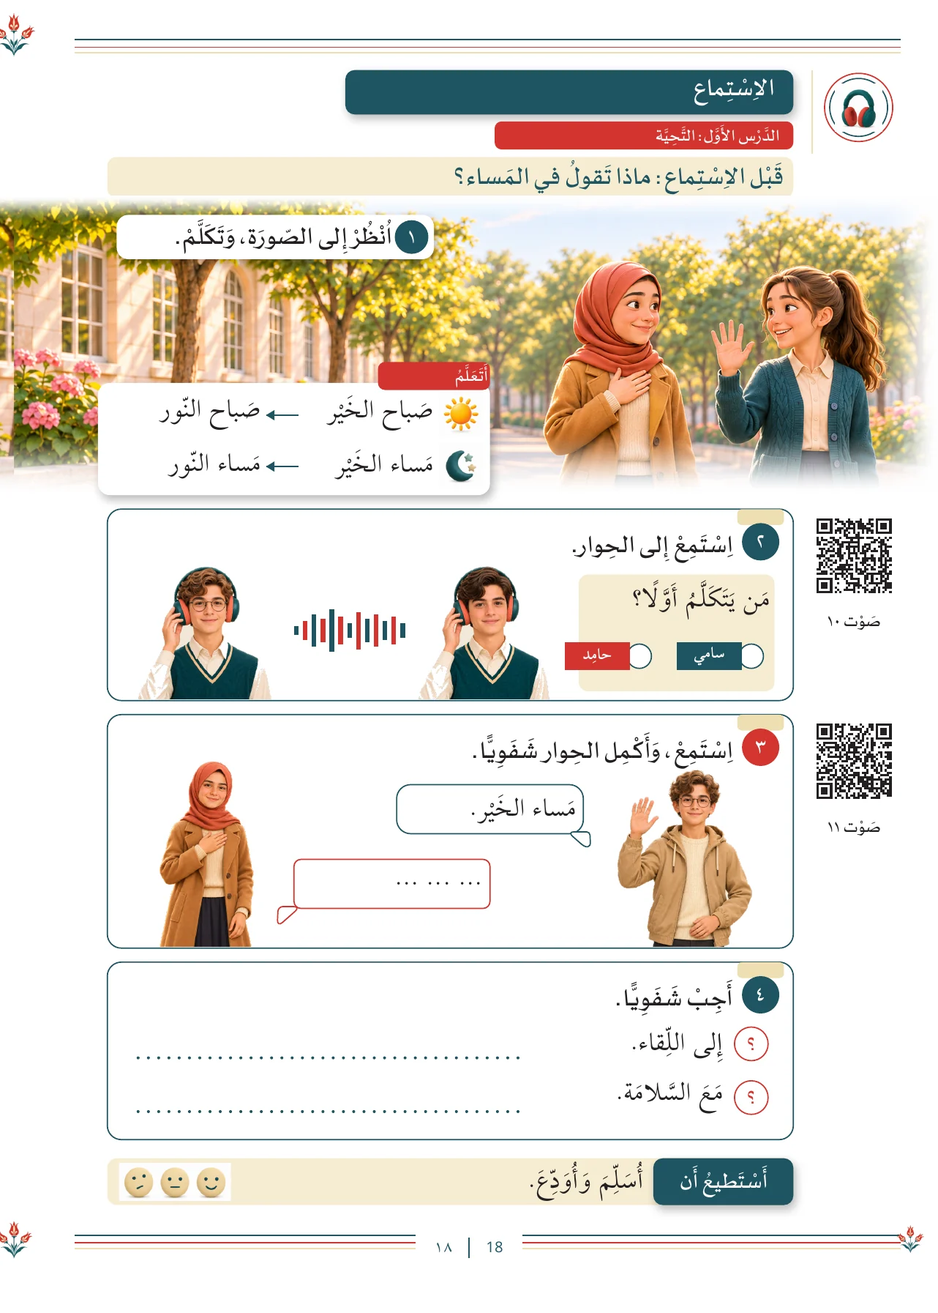
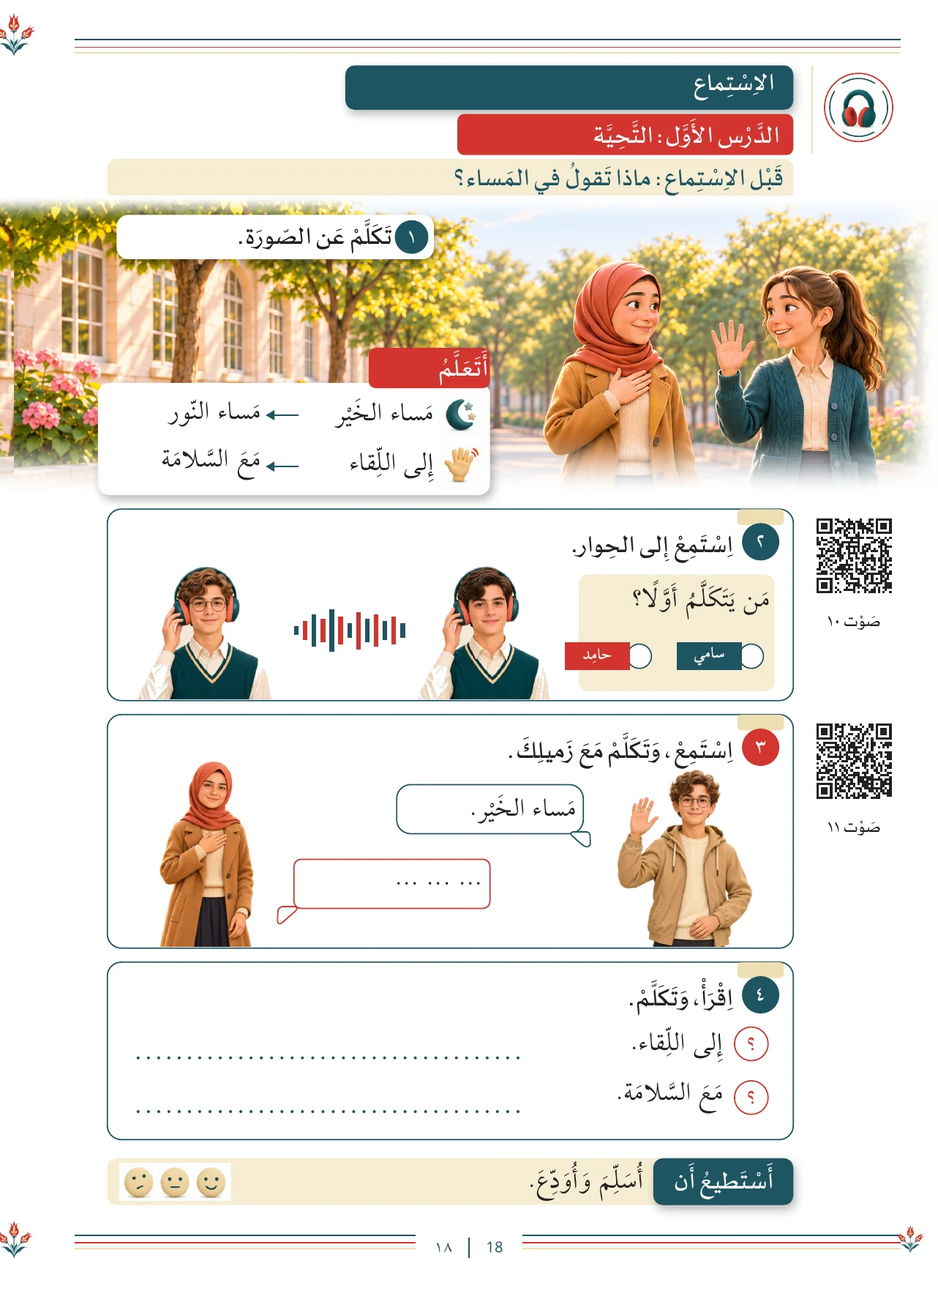
Sürüm 7.1: açılış penceresi, program yönerge fiilleri, başlık puntoları, tekrar eden görsel düzeltmesi

diff --git a/book-data.js b/book-data.js
@@ -1,1 +1,1 @@
-window.BOOK = {"id": "prea1-arapca-2026", "version": "0.4.0", "title": "Arapça Pre A1", "unitTitle": "Ehlen bi'l-Arabiyye", "unitArabic": "أَهْلًا بِالعَرَبِيَّةِ", "firstPage": 8, "lastPage": 20, "units": [{"number": 1, "first": 10, "last": 19, "title": "Ehlen bi'l-Arabiyye"}], "pages": [{"number": 8, "image": "assets/pages/008.webp", "thumb": "assets/thumbs/008.webp", "text": "", "resources": [], "hotspots": [], "regions": []}, {"number": 9, "image": "assets/pages/009.webp", "thumb": "assets/thumbs/009.webp", "text": "", "resources": [], "hotspots": [], "regions": []}, {"number": 10, "image": "assets/pages/010.webp", "thumb": "assets/thumbs/010.webp", "text": "", "resources": ["p10-unite_icerik"], "hotspots": [], "regions": []}, {"number": 11, "image": "assets/pages/011.webp", "thumb": "assets/thumbs/011.webp", "text": "", "resources": ["p11-unite_ozet", "p11-unite_video"], "hotspots": [], "regions": []}, {"number": 12, "image": "assets/pages/012.webp", "thumb": "assets/thumbs/012.webp", "text": "", "resources": ["p12-dinleme_1", "p12-dinleme_2"], "hotspots": [], "regions": [{"n": 1, "rect": [10.256, 14.727, 74.872, 23.818]}, {"n": 2, "rect": [10.256, 38.727, 74.872, 15.818]}, {"n": 3, "rect": [10.256, 54.727, 74.872, 19.091]}, {"n": 4, "rect": [10.256, 74, 74.872, 18.727]}]}, {"number": 13, "image": "assets/pages/013.webp", "thumb": "assets/thumbs/013.webp", "text": "", "resources": ["p13-alfabe", "p13-harf_sec"], "hotspots": [], "regions": [{"n": 1, "rect": [14.872, 38.727, 74.872, 33.818]}, {"n": 2, "rect": [14.872, 72.727, 74.872, 20]}]}, {"number": 14, "image": "assets/pages/014.webp", "thumb": "assets/thumbs/014.webp", "text": "", "resources": ["p14-harf_ses", "p14-harf_yaz"], "hotspots": [], "regions": [{"n": 1, "rect": [10.256, 12.545, 74.872, 13.273]}, {"n": 2, "rect": [10.256, 26, 74.872, 66.727]}]}, {"number": 15, "image": "assets/pages/015.webp", "thumb": "assets/thumbs/015.webp", "text": "", "resources": ["p15-hareke", "p15-hareke_sec"], "hotspots": [], "regions": [{"n": 1, "rect": [14.872, 12.545, 74.872, 54.364]}, {"n": 2, "rect": [14.872, 67.091, 74.872, 25.636]}]}, {"number": 16, "image": "assets/pages/016.webp", "thumb": "assets/thumbs/016.webp", "text": "", "resources": ["p16-ifade"], "hotspots": [], "regions": [{"n": 1, "rect": [10.256, 12.545, 74.872, 80.182]}]}, {"number": 17, "image": "assets/pages/017.webp", "thumb": "assets/thumbs/017.webp", "text": "", "resources": ["p17-harf_yaz_2", "p17-harf_sec_2"], "hotspots": [], "regions": [{"n": 1, "rect": [14.872, 12.545, 74.872, 55.636]}, {"n": 2, "rect": [14.872, 68.364, 74.872, 24.364]}]}, {"number": 18, "image": "assets/pages/018.webp", "thumb": "assets/thumbs/018.webp", "text": "", "resources": ["p18-dinleme_3", "p18-dinleme_4"], "hotspots": [], "regions": [{"n": 1, "rect": [10.256, 14.727, 74.872, 23.818]}, {"n": 2, "rect": [10.256, 38.727, 74.872, 15.818]}, {"n": 3, "rect": [10.256, 54.727, 74.872, 19.091]}, {"n": 4, "rect": [10.256, 74, 74.872, 18.727]}]}, {"number": 19, "image": "assets/pages/019.webp", "thumb": "assets/thumbs/019.webp", "text": "", "resources": ["p19-harf_yaz_3", "p19-harf_sec_3"], "hotspots": [], "regions": [{"n": 1, "rect": [14.872, 38.727, 74.872, 36.727]}, {"n": 2, "rect": [14.872, 75.636, 74.872, 17.091]}]}, {"number": 20, "image": "assets/pages/020.webp", "thumb": "assets/thumbs/020.webp", "text": "", "resources": [], "hotspots": [], "regions": []}], "resources": [{"id": "p10-unite_icerik", "page": 10, "kind": "web", "title": "مَوْقِع الوَحْدَة", "label": "مَوْقِع الوَحْدَة", "url": "", "rect": [87.179, 49.455, 10.256, 7.273], "media": "unite_icerik"}, {"id": "p11-unite_ozet", "page": 11, "kind": "video", "title": "مُخْتَصَر الوَحْدَة", "label": "مُخْتَصَر الوَحْدَة", "url": "", "rect": [2.564, 53.091, 10.256, 7.273], "media": "unite_ozet"}, {"id": "p11-unite_video", "page": 11, "kind": "video", "title": "فيديو الوَحْدَة", "label": "فيديو الوَحْدَة", "url": "", "rect": [2.564, 77.818, 10.256, 7.273], "media": "unite_video"}, {"id": "p12-dinleme_1", "page": 12, "kind": "audio", "title": "صَوْت 1", "label": "صَوْت 1", "url": "", "rect": [87.179, 38.545, 10.256, 7.273], "media": "dinleme_1"}, {"id": "p12-dinleme_2", "page": 12, "kind": "audio", "title": "صَوْت 2", "label": "صَوْت 2", "url": "", "rect": [87.179, 54.545, 10.256, 7.273], "media": "dinleme_2"}, {"id": "p13-alfabe", "page": 13, "kind": "audio", "title": "صَوْت 3", "label": "صَوْت 3", "url": "", "rect": [2.821, 61.091, 10.256, 7.273], "media": "alfabe"}, {"id": "p13-harf_sec", "page": 13, "kind": "audio", "title": "صَوْت 4", "label": "صَوْت 4", "url": "", "rect": [2.564, 72.545, 10.256, 7.273], "media": "harf_sec"}, {"id": "p14-harf_ses", "page": 14, "kind": "audio", "title": "صَوْت 5", "label": "صَوْت 5", "url": "", "rect": [87.179, 12.364, 10.256, 7.273], "media": "harf_ses"}, {"id": "p14-harf_yaz", "page": 14, "kind": "video", "title": "فيديو 1", "label": "فيديو 1", "url": "", "rect": [87.179, 25.818, 10.256, 7.273], "media": "harf_yaz"}, {"id": "p15-hareke", "page": 15, "kind": "audio", "title": "صَوْت 6", "label": "صَوْت 6", "url": "", "rect": [2.564, 12.364, 10.256, 7.273], "media": "hareke"}, {"id": "p15-hareke_sec", "page": 15, "kind": "audio", "title": "صَوْت 7", "label": "صَوْت 7", "url": "", "rect": [2.564, 66.909, 10.256, 7.273], "media": "hareke_sec"}, {"id": "p16-ifade", "page": 16, "kind": "audio", "title": "صَوْت 8", "label": "صَوْت 8", "url": "", "rect": [87.179, 12.364, 10.256, 7.273], "media": "ifade"}, {"id": "p17-harf_yaz_2", "page": 17, "kind": "video", "title": "فيديو 2", "label": "فيديو 2", "url": "", "rect": [2.821, 56.727, 10.256, 7.273], "media": "harf_yaz_2"}, {"id": "p17-harf_sec_2", "page": 17, "kind": "audio", "title": "صَوْت 9", "label": "صَوْت 9", "url": "", "rect": [2.564, 68.182, 10.256, 7.273], "media": "harf_sec_2"}, {"id": "p18-dinleme_3", "page": 18, "kind": "audio", "title": "صَوْت 10", "label": "صَوْت 10", "url": "", "rect": [87.179, 38.545, 10.256, 7.273], "media": "dinleme_3"}, {"id": "p18-dinleme_4", "page": 18, "kind": "audio", "title": "صَوْت 11", "label": "صَوْت 11", "url": "", "rect": [87.179, 54.545, 10.256, 7.273], "media": "dinleme_4"}, {"id": "p19-harf_yaz_3", "page": 19, "kind": "video", "title": "فيديو 3", "label": "فيديو 3", "url": "", "rect": [2.821, 64, 10.256, 7.273], "media": "harf_yaz_3"}, {"id": "p19-harf_sec_3", "page": 19, "kind": "audio", "title": "صَوْت 12", "label": "صَوْت 12", "url": "", "rect": [2.564, 75.455, 10.256, 7.273], "media": "harf_sec_3"}], "media": [{"id": "unite_ozet", "src": "assets/media/unite_ozet.mp4", "page": 11, "kind": "video", "title": "مُخْتَصَر الوَحْدَة"}, {"id": "unite_video", "src": "assets/media/unite_video.mp4", "page": 11, "kind": "video", "title": "فيديو الوَحْدَة"}, {"id": "dinleme_1", "src": "assets/media/dinleme_1.mp3", "page": 12, "kind": "audio", "title": "صَوْت 1"}, {"id": "dinleme_2", "src": "assets/media/dinleme_2.mp3", "page": 12, "kind": "audio", "title": "صَوْت 2"}, {"id": "alfabe", "src": "assets/media/alfabe.mp3", "page": 13, "kind": "audio", "title": "صَوْت 3"}, {"id": "harf_sec", "src": "assets/media/harf_sec.mp3", "page": 13, "kind": "audio", "title": "صَوْت 4"}, {"id": "harf_ses", "src": "assets/media/harf_ses.mp3", "page": 14, "kind": "audio", "title": "صَوْت 5"}, {"id": "harf_yaz", "src": "assets/media/harf_yaz.mp4", "page": 14, "kind": "video", "title": "فيديو 1"}, {"id": "hareke", "src": "assets/media/hareke.mp3", "page": 15, "kind": "audio", "title": "صَوْت 6"}, {"id": "hareke_sec", "src": "assets/media/hareke_sec.mp3", "page": 15, "kind": "audio", "title": "صَوْت 7"}, {"id": "ifade", "src": "assets/media/ifade.mp3", "page": 16, "kind": "audio", "title": "صَوْت 8"}, {"id": "harf_yaz_2", "src": "assets/media/harf_yaz_2.mp4", "page": 17, "kind": "video", "title": "فيديو 2"}, {"id": "harf_sec_2", "src": "assets/media/harf_sec_2.mp3", "page": 17, "kind": "audio", "title": "صَوْت 9"}, {"id": "dinleme_3", "src": "assets/media/dinleme_3.mp3", "page": 18, "kind": "audio", "title": "صَوْت 10"}, {"id": "dinleme_4", "src": "assets/media/dinleme_4.mp3", "page": 18, "kind": "audio", "title": "صَوْت 11"}, {"id": "harf_yaz_3", "src": "assets/media/harf_yaz_3.mp4", "page": 19, "kind": "video", "title": "فيديو 3"}, {"id": "harf_sec_3", "src": "assets/media/harf_sec_3.mp3", "page": 19, "kind": "audio", "title": "صَوْت 12"}], "activities": [], "stats": {"audio": 12, "video": 5}, "chapters": [{"page": 8, "title": "Kapak", "group": "KİTAP"}, {"page": 9, "title": "İç kapak"}, {"page": 10, "title": "Üniteye giriş", "group": "1. ÜNİTE · AHLEN Bİ'L-ARABİYYE"}, {"page": 12, "title": "Sabah selamı"}, {"page": 13, "title": "Harfler ve sesler"}, {"page": 14, "title": "Yazıyorum: ا – خ"}, {"page": 15, "title": "Kısa harekeler"}, {"page": 16, "title": "Selamlaşma ifadeleri"}, {"page": 17, "title": "Yazıyorum: د – ش"}, {"page": 18, "title": "Akşam vedası"}, {"page": 19, "title": "Yazıyorum: ص – غ"}]};
+window.BOOK = {"id": "prea1-arapca-2026", "version": "0.4.0", "title": "Arapça Pre A1", "unitTitle": "Ehlen bi'l-Arabiyye", "unitArabic": "أَهْلًا بِالعَرَبِيَّةِ", "firstPage": 8, "lastPage": 20, "units": [{"number": 1, "first": 10, "last": 19, "title": "Ehlen bi'l-Arabiyye"}], "pages": [{"number": 8, "image": "assets/pages/008.webp", "thumb": "assets/thumbs/008.webp", "text": "", "resources": [], "hotspots": [], "regions": []}, {"number": 9, "image": "assets/pages/009.webp", "thumb": "assets/thumbs/009.webp", "text": "", "resources": [], "hotspots": [], "regions": []}, {"number": 10, "image": "assets/pages/010.webp", "thumb": "assets/thumbs/010.webp", "text": "", "resources": ["p10-unite_icerik"], "hotspots": [], "regions": []}, {"number": 11, "image": "assets/pages/011.webp", "thumb": "assets/thumbs/011.webp", "text": "", "resources": ["p11-unite_ozet", "p11-unite_video"], "hotspots": [], "regions": []}, {"number": 12, "image": "assets/pages/012.webp", "thumb": "assets/thumbs/012.webp", "text": "", "resources": ["p12-dinleme_1", "p12-dinleme_2"], "hotspots": [], "regions": [{"n": 1, "rect": [10.256, 14.727, 74.872, 23.818]}, {"n": 2, "rect": [10.256, 38.727, 74.872, 15.818]}, {"n": 3, "rect": [10.256, 54.727, 74.872, 19.091]}, {"n": 4, "rect": [10.256, 74, 74.872, 18.727]}]}, {"number": 13, "image": "assets/pages/013.webp", "thumb": "assets/thumbs/013.webp", "text": "", "resources": ["p13-alfabe", "p13-harf_sec"], "hotspots": [], "regions": [{"n": 1, "rect": [14.872, 38.727, 74.872, 33.818]}, {"n": 2, "rect": [14.872, 72.727, 74.872, 20]}]}, {"number": 14, "image": "assets/pages/014.webp", "thumb": "assets/thumbs/014.webp", "text": "", "resources": ["p14-harf_ses", "p14-harf_yaz"], "hotspots": [], "regions": [{"n": 1, "rect": [10.256, 12.545, 74.872, 13.273]}, {"n": 2, "rect": [10.256, 26, 74.872, 66.727]}]}, {"number": 15, "image": "assets/pages/015.webp", "thumb": "assets/thumbs/015.webp", "text": "", "resources": ["p15-hareke", "p15-hareke_sec"], "hotspots": [], "regions": [{"n": 1, "rect": [14.872, 12.545, 74.872, 54.364]}, {"n": 2, "rect": [14.872, 67.091, 74.872, 25.636]}]}, {"number": 16, "image": "assets/pages/016.webp", "thumb": "assets/thumbs/016.webp", "text": "", "resources": ["p16-ifade"], "hotspots": [], "regions": [{"n": 1, "rect": [10.256, 12.545, 74.872, 80.182]}]}, {"number": 17, "image": "assets/pages/017.webp", "thumb": "assets/thumbs/017.webp", "text": "", "resources": ["p17-harf_yaz_2", "p17-harf_sec_2"], "hotspots": [], "regions": [{"n": 1, "rect": [14.872, 12.545, 74.872, 55.636]}, {"n": 2, "rect": [14.872, 68.364, 74.872, 24.364]}]}, {"number": 18, "image": "assets/pages/018.webp", "thumb": "assets/thumbs/018.webp", "text": "", "resources": ["p18-dinleme_3", "p18-dinleme_4"], "hotspots": [], "regions": [{"n": 1, "rect": [10.256, 14.727, 74.872, 23.818]}, {"n": 2, "rect": [10.256, 38.727, 74.872, 15.818]}, {"n": 3, "rect": [10.256, 54.727, 74.872, 19.091]}, {"n": 4, "rect": [10.256, 74, 74.872, 18.727]}]}, {"number": 19, "image": "assets/pages/019.webp", "thumb": "assets/thumbs/019.webp", "text": "", "resources": ["p19-harf_yaz_3"], "hotspots": [], "regions": [{"n": 1, "rect": [14.872, 38.727, 74.872, 54]}]}, {"number": 20, "image": "assets/pages/020.webp", "thumb": "assets/thumbs/020.webp", "text": "", "resources": [], "hotspots": [], "regions": []}], "resources": [{"id": "p10-unite_icerik", "page": 10, "kind": "web", "title": "مَوْقِع الوَحْدَة", "label": "مَوْقِع الوَحْدَة", "url": "", "rect": [87.179, 50.909, 10.256, 7.273], "media": "unite_icerik"}, {"id": "p11-unite_ozet", "page": 11, "kind": "video", "title": "مُخْتَصَر الوَحْدَة", "label": "مُخْتَصَر الوَحْدَة", "url": "", "rect": [2.564, 50.909, 10.256, 7.273], "media": "unite_ozet"}, {"id": "p11-unite_video", "page": 11, "kind": "video", "title": "فيديو الوَحْدَة", "label": "فيديو الوَحْدَة", "url": "", "rect": [2.564, 77.091, 10.256, 7.273], "media": "unite_video"}, {"id": "p12-dinleme_1", "page": 12, "kind": "audio", "title": "صَوْت 1", "label": "صَوْت 1", "url": "", "rect": [87.179, 38.545, 10.256, 7.273], "media": "dinleme_1"}, {"id": "p12-dinleme_2", "page": 12, "kind": "audio", "title": "صَوْت 2", "label": "صَوْت 2", "url": "", "rect": [87.179, 54.545, 10.256, 7.273], "media": "dinleme_2"}, {"id": "p13-alfabe", "page": 13, "kind": "audio", "title": "صَوْت 3", "label": "صَوْت 3", "url": "", "rect": [2.821, 61.091, 10.256, 7.273], "media": "alfabe"}, {"id": "p13-harf_sec", "page": 13, "kind": "audio", "title": "صَوْت 4", "label": "صَوْت 4", "url": "", "rect": [2.564, 72.545, 10.256, 7.273], "media": "harf_sec"}, {"id": "p14-harf_ses", "page": 14, "kind": "audio", "title": "صَوْت 5", "label": "صَوْت 5", "url": "", "rect": [87.179, 12.364, 10.256, 7.273], "media": "harf_ses"}, {"id": "p14-harf_yaz", "page": 14, "kind": "video", "title": "فيديو 1", "label": "فيديو 1", "url": "", "rect": [87.179, 25.818, 10.256, 7.273], "media": "harf_yaz"}, {"id": "p15-hareke", "page": 15, "kind": "audio", "title": "صَوْت 6", "label": "صَوْت 6", "url": "", "rect": [2.564, 12.364, 10.256, 7.273], "media": "hareke"}, {"id": "p15-hareke_sec", "page": 15, "kind": "audio", "title": "صَوْت 7", "label": "صَوْت 7", "url": "", "rect": [2.564, 66.909, 10.256, 7.273], "media": "hareke_sec"}, {"id": "p16-ifade", "page": 16, "kind": "audio", "title": "صَوْت 8", "label": "صَوْت 8", "url": "", "rect": [87.179, 12.364, 10.256, 7.273], "media": "ifade"}, {"id": "p17-harf_yaz_2", "page": 17, "kind": "video", "title": "فيديو 2", "label": "فيديو 2", "url": "", "rect": [2.821, 56.727, 10.256, 7.273], "media": "harf_yaz_2"}, {"id": "p17-harf_sec_2", "page": 17, "kind": "audio", "title": "صَوْت 9", "label": "صَوْت 9", "url": "", "rect": [2.564, 68.182, 10.256, 7.273], "media": "harf_sec_2"}, {"id": "p18-dinleme_3", "page": 18, "kind": "audio", "title": "صَوْت 10", "label": "صَوْت 10", "url": "", "rect": [87.179, 38.545, 10.256, 7.273], "media": "dinleme_3"}, {"id": "p18-dinleme_4", "page": 18, "kind": "audio", "title": "صَوْت 11", "label": "صَوْت 11", "url": "", "rect": [87.179, 54.545, 10.256, 7.273], "media": "dinleme_4"}, {"id": "p19-harf_yaz_3", "page": 19, "kind": "video", "title": "فيديو 3", "label": "فيديو 3", "url": "", "rect": [2.821, 74.727, 10.256, 7.273], "media": "harf_yaz_3"}], "media": [{"id": "unite_ozet", "src": "assets/media/unite_ozet.mp4", "page": 11, "kind": "video", "title": "مُخْتَصَر الوَحْدَة"}, {"id": "unite_video", "src": "assets/media/unite_video.mp4", "page": 11, "kind": "video", "title": "فيديو الوَحْدَة"}, {"id": "dinleme_1", "src": "assets/media/dinleme_1.mp3", "page": 12, "kind": "audio", "title": "صَوْت 1"}, {"id": "dinleme_2", "src": "assets/media/dinleme_2.mp3", "page": 12, "kind": "audio", "title": "صَوْت 2"}, {"id": "alfabe", "src": "assets/media/alfabe.mp3", "page": 13, "kind": "audio", "title": "صَوْت 3"}, {"id": "harf_sec", "src": "assets/media/harf_sec.mp3", "page": 13, "kind": "audio", "title": "صَوْت 4"}, {"id": "harf_ses", "src": "assets/media/harf_ses.mp3", "page": 14, "kind": "audio", "title": "صَوْت 5"}, {"id": "harf_yaz", "src": "assets/media/harf_yaz.mp4", "page": 14, "kind": "video", "title": "فيديو 1"}, {"id": "hareke", "src": "assets/media/hareke.mp3", "page": 15, "kind": "audio", "title": "صَوْت 6"}, {"id": "hareke_sec", "src": "assets/media/hareke_sec.mp3", "page": 15, "kind": "audio", "title": "صَوْت 7"}, {"id": "ifade", "src": "assets/media/ifade.mp3", "page": 16, "kind": "audio", "title": "صَوْت 8"}, {"id": "harf_yaz_2", "src": "assets/media/harf_yaz_2.mp4", "page": 17, "kind": "video", "title": "فيديو 2"}, {"id": "harf_sec_2", "src": "assets/media/harf_sec_2.mp3", "page": 17, "kind": "audio", "title": "صَوْت 9"}, {"id": "dinleme_3", "src": "assets/media/dinleme_3.mp3", "page": 18, "kind": "audio", "title": "صَوْت 10"}, {"id": "dinleme_4", "src": "assets/media/dinleme_4.mp3", "page": 18, "kind": "audio", "title": "صَوْت 11"}, {"id": "harf_yaz_3", "src": "assets/media/harf_yaz_3.mp4", "page": 19, "kind": "video", "title": "فيديو 3"}], "activities": [], "stats": {"audio": 11, "video": 5}, "chapters": [{"page": 8, "title": "Kapak", "group": "KİTAP"}, {"page": 9, "title": "İç kapak"}, {"page": 10, "title": "Üniteye giriş", "group": "1. ÜNİTE · AHLEN Bİ'L-ARABİYYE"}, {"page": 12, "title": "Sabah selamı"}, {"page": 13, "title": "Harfler ve sesler"}, {"page": 14, "title": "Yazıyorum: ا – خ"}, {"page": 15, "title": "Kısa harekeler"}, {"page": 16, "title": "Selamlaşma ifadeleri"}, {"page": 17, "title": "Yazıyorum: د – ش"}, {"page": 18, "title": "Akşam vedası"}, {"page": 19, "title": "Yazıyorum: ص – غ"}]};

diff --git a/cevaplar.js b/cevaplar.js
@@ -1,1 +1,1 @@
-window.CEVAP={"13.2": {"q": [{"t": "pick", "x": [[78.154, 77.873, 4.718, 3.345], [72.769, 77.873, 4.718, 3.345], [67.385, 77.873, 4.718, 3.345], [54.906, 77.873, 4.718, 3.345], [49.521, 77.873, 4.718, 3.345], [44.137, 77.873, 4.718, 3.345], [31.658, 77.873, 4.718, 3.345], [26.274, 77.873, 4.718, 3.345], [20.889, 77.873, 4.718, 3.345], [78.154, 82.418, 4.718, 3.345], [72.769, 82.418, 4.718, 3.345], [67.385, 82.418, 4.718, 3.345], [54.906, 82.418, 4.718, 3.345], [49.521, 82.418, 4.718, 3.345], [44.137, 82.418, 4.718, 3.345], [31.658, 82.418, 4.718, 3.345], [26.274, 82.418, 4.718, 3.345], [20.889, 82.418, 4.718, 3.345]], "g": [0, 0, 0, 1, 1, 1, 2, 2, 2, 3, 3, 3, 4, 4, 4, 5, 5, 5], "ok": [1, 5, 7, 11, 13, 17], "m": "ring"}]}, "15.2": {"q": [{"t": "pick", "x": [[78.154, 73.055, 4.718, 3.345], [72.769, 73.055, 4.718, 3.345], [67.385, 73.055, 4.718, 3.345], [54.906, 73.055, 4.718, 3.345], [49.521, 73.055, 4.718, 3.345], [44.137, 73.055, 4.718, 3.345], [31.658, 73.055, 4.718, 3.345], [26.274, 73.055, 4.718, 3.345], [20.889, 73.055, 4.718, 3.345], [78.154, 79.236, 4.718, 3.345], [72.769, 79.236, 4.718, 3.345], [67.385, 79.236, 4.718, 3.345], [54.906, 79.236, 4.718, 3.345], [49.521, 79.236, 4.718, 3.345], [44.137, 79.236, 4.718, 3.345], [31.658, 79.236, 4.718, 3.345], [26.274, 79.236, 4.718, 3.345], [20.889, 79.236, 4.718, 3.345]], "g": [0, 0, 0, 1, 1, 1, 2, 2, 2, 3, 3, 3, 4, 4, 4, 5, 5, 5], "ok": [0, 5, 7, 10, 12, 17], "m": "ring"}]}, "17.2": {"q": [{"t": "pick", "x": [[78.154, 74.327, 4.718, 3.345], [72.769, 74.327, 4.718, 3.345], [67.385, 74.327, 4.718, 3.345], [54.906, 74.327, 4.718, 3.345], [49.521, 74.327, 4.718, 3.345], [44.137, 74.327, 4.718, 3.345], [31.658, 74.327, 4.718, 3.345], [26.274, 74.327, 4.718, 3.345], [20.889, 74.327, 4.718, 3.345], [78.154, 80.509, 4.718, 3.345], [72.769, 80.509, 4.718, 3.345], [67.385, 80.509, 4.718, 3.345], [54.906, 80.509, 4.718, 3.345], [49.521, 80.509, 4.718, 3.345], [44.137, 80.509, 4.718, 3.345], [31.658, 80.509, 4.718, 3.345], [26.274, 80.509, 4.718, 3.345], [20.889, 80.509, 4.718, 3.345]], "g": [0, 0, 0, 1, 1, 1, 2, 2, 2, 3, 3, 3, 4, 4, 4, 5, 5, 5], "ok": [1, 4, 7, 9, 14, 15], "m": "ring"}]}, "19.2": {"q": [{"t": "pick", "x": [[78.205, 80.364, 4.615, 3.273], [72.821, 80.364, 4.615, 3.273], [67.436, 80.364, 4.615, 3.273], [54.957, 80.364, 4.615, 3.273], [49.573, 80.364, 4.615, 3.273], [44.188, 80.364, 4.615, 3.273], [31.709, 80.364, 4.615, 3.273], [26.325, 80.364, 4.615, 3.273], [20.94, 80.364, 4.615, 3.273], [78.205, 84, 4.615, 3.273], [72.821, 84, 4.615, 3.273], [67.436, 84, 4.615, 3.273], [54.957, 84, 4.615, 3.273], [49.573, 84, 4.615, 3.273], [44.188, 84, 4.615, 3.273], [31.709, 84, 4.615, 3.273], [26.325, 84, 4.615, 3.273], [20.94, 84, 4.615, 3.273]], "g": [0, 0, 0, 1, 1, 1, 2, 2, 2, 3, 3, 3, 4, 4, 4, 5, 5, 5], "ok": [1, 4, 6, 10, 12, 16], "m": "ring"}]}};
+window.CEVAP={"13.2": {"q": [{"t": "pick", "x": [[78.154, 77.873, 4.718, 3.345], [72.769, 77.873, 4.718, 3.345], [67.385, 77.873, 4.718, 3.345], [54.906, 77.873, 4.718, 3.345], [49.521, 77.873, 4.718, 3.345], [44.137, 77.873, 4.718, 3.345], [31.658, 77.873, 4.718, 3.345], [26.274, 77.873, 4.718, 3.345], [20.889, 77.873, 4.718, 3.345], [78.154, 82.418, 4.718, 3.345], [72.769, 82.418, 4.718, 3.345], [67.385, 82.418, 4.718, 3.345], [54.906, 82.418, 4.718, 3.345], [49.521, 82.418, 4.718, 3.345], [44.137, 82.418, 4.718, 3.345], [31.658, 82.418, 4.718, 3.345], [26.274, 82.418, 4.718, 3.345], [20.889, 82.418, 4.718, 3.345]], "g": [0, 0, 0, 1, 1, 1, 2, 2, 2, 3, 3, 3, 4, 4, 4, 5, 5, 5], "ok": [1, 5, 7, 11, 13, 17], "m": "ring"}]}, "15.2": {"q": [{"t": "pick", "x": [[78.154, 73.055, 4.718, 3.345], [72.769, 73.055, 4.718, 3.345], [67.385, 73.055, 4.718, 3.345], [54.906, 73.055, 4.718, 3.345], [49.521, 73.055, 4.718, 3.345], [44.137, 73.055, 4.718, 3.345], [31.658, 73.055, 4.718, 3.345], [26.274, 73.055, 4.718, 3.345], [20.889, 73.055, 4.718, 3.345], [78.154, 79.236, 4.718, 3.345], [72.769, 79.236, 4.718, 3.345], [67.385, 79.236, 4.718, 3.345], [54.906, 79.236, 4.718, 3.345], [49.521, 79.236, 4.718, 3.345], [44.137, 79.236, 4.718, 3.345], [31.658, 79.236, 4.718, 3.345], [26.274, 79.236, 4.718, 3.345], [20.889, 79.236, 4.718, 3.345]], "g": [0, 0, 0, 1, 1, 1, 2, 2, 2, 3, 3, 3, 4, 4, 4, 5, 5, 5], "ok": [0, 5, 7, 10, 12, 17], "m": "ring"}]}, "17.2": {"q": [{"t": "pick", "x": [[78.154, 74.327, 4.718, 3.345], [72.769, 74.327, 4.718, 3.345], [67.385, 74.327, 4.718, 3.345], [54.906, 74.327, 4.718, 3.345], [49.521, 74.327, 4.718, 3.345], [44.137, 74.327, 4.718, 3.345], [31.658, 74.327, 4.718, 3.345], [26.274, 74.327, 4.718, 3.345], [20.889, 74.327, 4.718, 3.345], [78.154, 80.509, 4.718, 3.345], [72.769, 80.509, 4.718, 3.345], [67.385, 80.509, 4.718, 3.345], [54.906, 80.509, 4.718, 3.345], [49.521, 80.509, 4.718, 3.345], [44.137, 80.509, 4.718, 3.345], [31.658, 80.509, 4.718, 3.345], [26.274, 80.509, 4.718, 3.345], [20.889, 80.509, 4.718, 3.345]], "g": [0, 0, 0, 1, 1, 1, 2, 2, 2, 3, 3, 3, 4, 4, 4, 5, 5, 5], "ok": [1, 4, 7, 9, 14, 15], "m": "ring"}]}};

diff --git a/ses-metni.js b/ses-metni.js
@@ -5,16 +5,16 @@ window.SES={
   "script": [
    "مَرْيَم: صَباح الخَيْر يا لَيْلى.",
    "لَيْلى: صَباح النّور يا مَرْيَم.",
-   "مَرْيَم: كَيْف حالُكِ؟",
-   "لَيْلى: بِخَيْر، وَالحَمْدُ لِلّٰهِ."
+   "مَرْيَم: كَيْف حالُك؟",
+   "لَيْلى: أَنا بِخَيْر، وَالحَمْد لِلّٰه."
   ]
  },
  "p12-dinleme_2": {
   "page": 12,
   "label": "صَوْت 2",
   "script": [
-   "سامي: السَّلامُ عَلَيْكُمْ.",
-   "(الطّالِب يُجيبُ: وَعَلَيْكُمُ السَّلامُ.)"
+   "سامي: السَّلام عَلَيْكُم.",
+   "(الطّالِبَة تُجيبُ: وَعَلَيْكُم السَّلام.)"
   ]
  },
  "p13-harf_sec": {
@@ -70,12 +70,12 @@ window.SES={
   "page": 16,
   "label": "صَوْت 8",
   "script": [
-   "السَّلامُ عَلَيْكُمْ.",
+   "السَّلام عَلَيْكُم.",
    "صَباح الخَيْر.",
    "مَساء الخَيْر.",
    "مَرْحَبًا.",
    "أَهْلًا وَسَهْلًا.",
-   "كَيْف حالُكَ؟",
+   "كَيْف حالُك؟",
    "مَعَ السَّلامَة.",
    "إِلى اللِّقاء."
   ]
@@ -108,18 +108,6 @@ window.SES={
   "script": [
    "حامِد: مَساء الخَيْر.",
    "(الطّالِب يُجيبُ: مَساء النّور.)"
-  ]
- },
- "p19-harf_sec_3": {
-  "page": 19,
-  "label": "صَوْت 12",
-  "script": [
-   "١: ض",
-   "٢: ظ",
-   "٣: ع",
-   "٤: ص",
-   "٥: غ",
-   "٦: ط"
   ]
  }
 };
